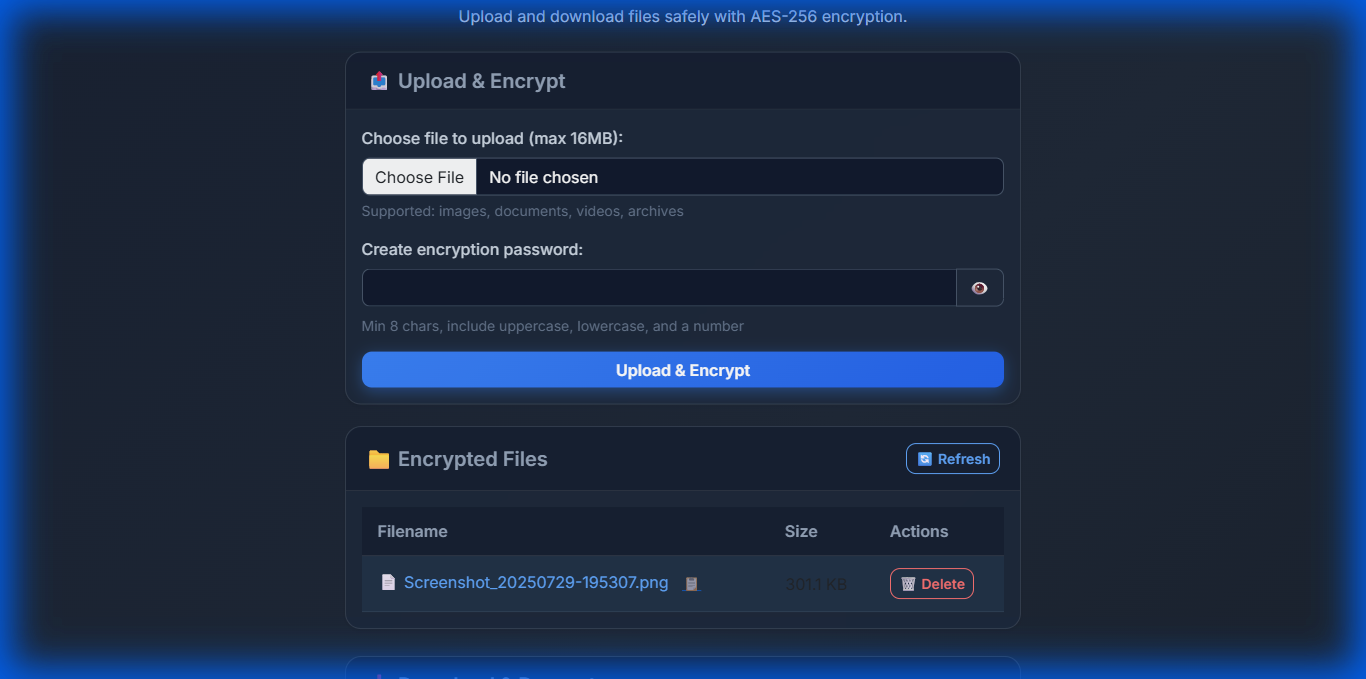
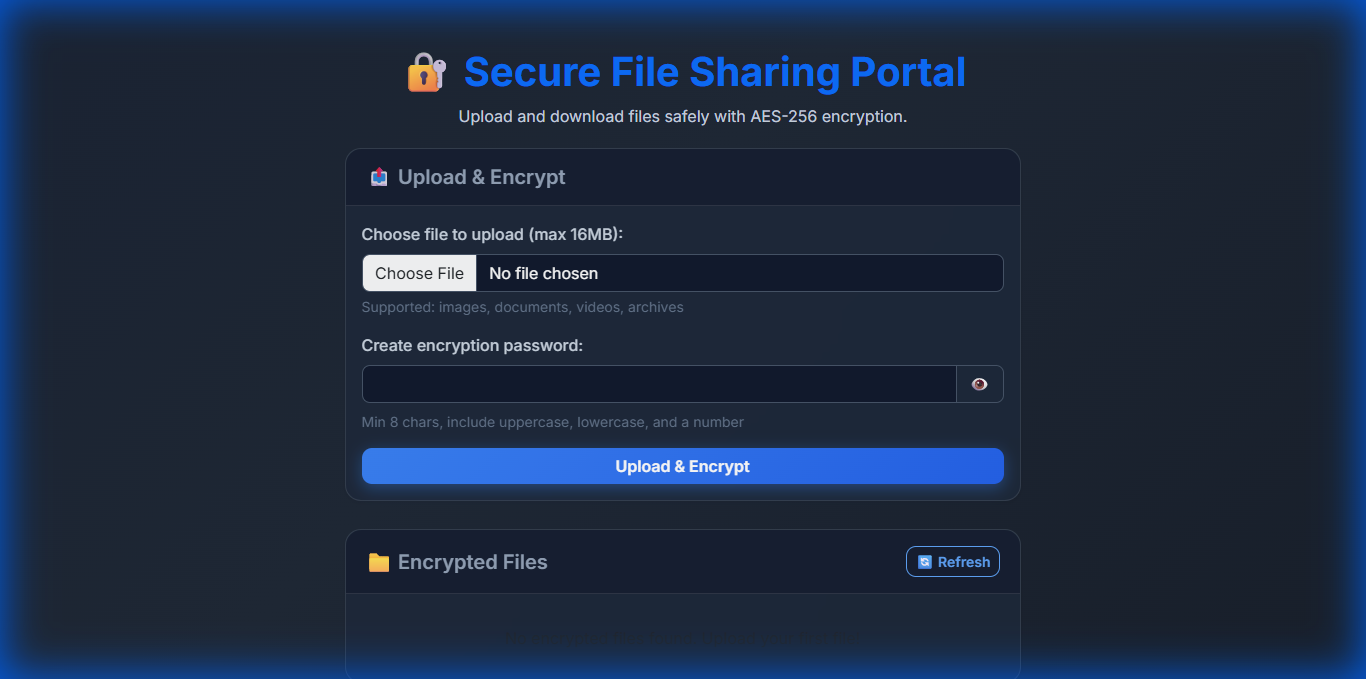
📸 Update screenshots from live app and clean up README
- Replaced screenshots with captures from live deployed app

- Fixed image captions with proper HTML centering

- Updated live demo URL to actual deployment

- Removed API Endpoints section (not needed for web app)

diff --git a/README.md b/README.md
@@ -19,17 +19,21 @@ A beautiful, secure file sharing application with AES-256 encryption. Upload fil
 
 ## 🚀 Live Demo
 
-**[Try it live on Render](https://secure-file-share.onrender.com)** *(Update this URL after deployment)*
+**[🔗 Try it live on Render](https://secure-file-share-jufq.onrender.com)**
 
 ## 📸 Screenshots
 
 ### Main Interface
-![Main Interface](screenshots/main-interface.png)
-*The modern dark-themed interface with upload, file list, and download sections.*
+<p align="center">
+  <img src="screenshots/main-interface.png" alt="Main Interface" width="700">
+</p>
+<p align="center"><em>The modern dark-themed interface with upload, file list, and download sections.</em></p>
 
 ### Password Strength Indicator
-![Password Strength](screenshots/password-strength.png)
-*Real-time feedback on password security with visual strength bar.*
+<p align="center">
+  <img src="screenshots/password-strength.png" alt="Password Strength" width="700">
+</p>
+<p align="center"><em>Real-time feedback on password security with visual strength bar.</em></p>
 
 
 ## 🛠 Installation
@@ -133,16 +137,6 @@ secure-file-share/
    - `PYTHON_VERSION`: `3.11.0`
 
 5. **Deploy!** 🎉
-
-## 📝 API Endpoints
-
-| Method | Endpoint | Description |
-|--------|----------|-------------|
-| `GET` | `/` | Main page |
-| `POST` | `/upload` | Upload and encrypt file |
-| `POST` | `/download` | Download and decrypt file |
-| `GET` | `/api/files` | List all encrypted files |
-| `DELETE` | `/api/files/<filename>` | Delete encrypted file |
 
 ## 🤝 Contributing
 
